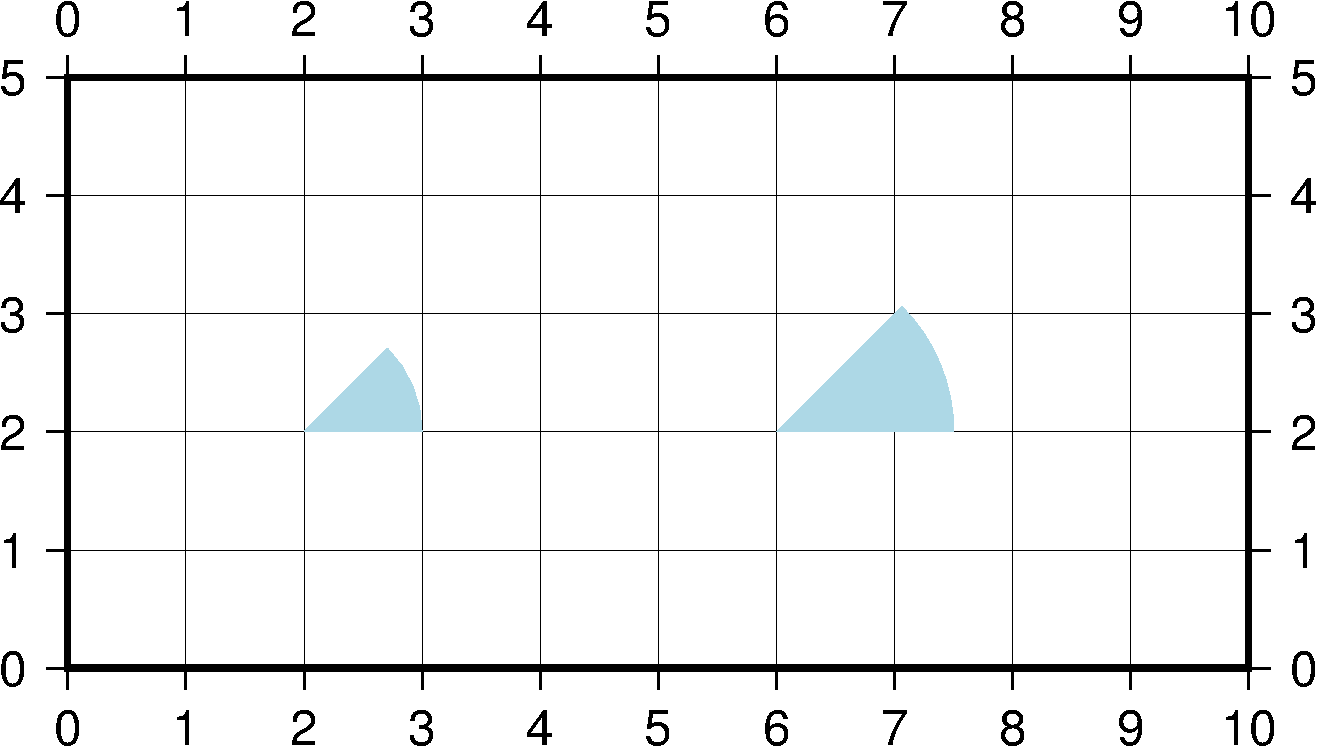
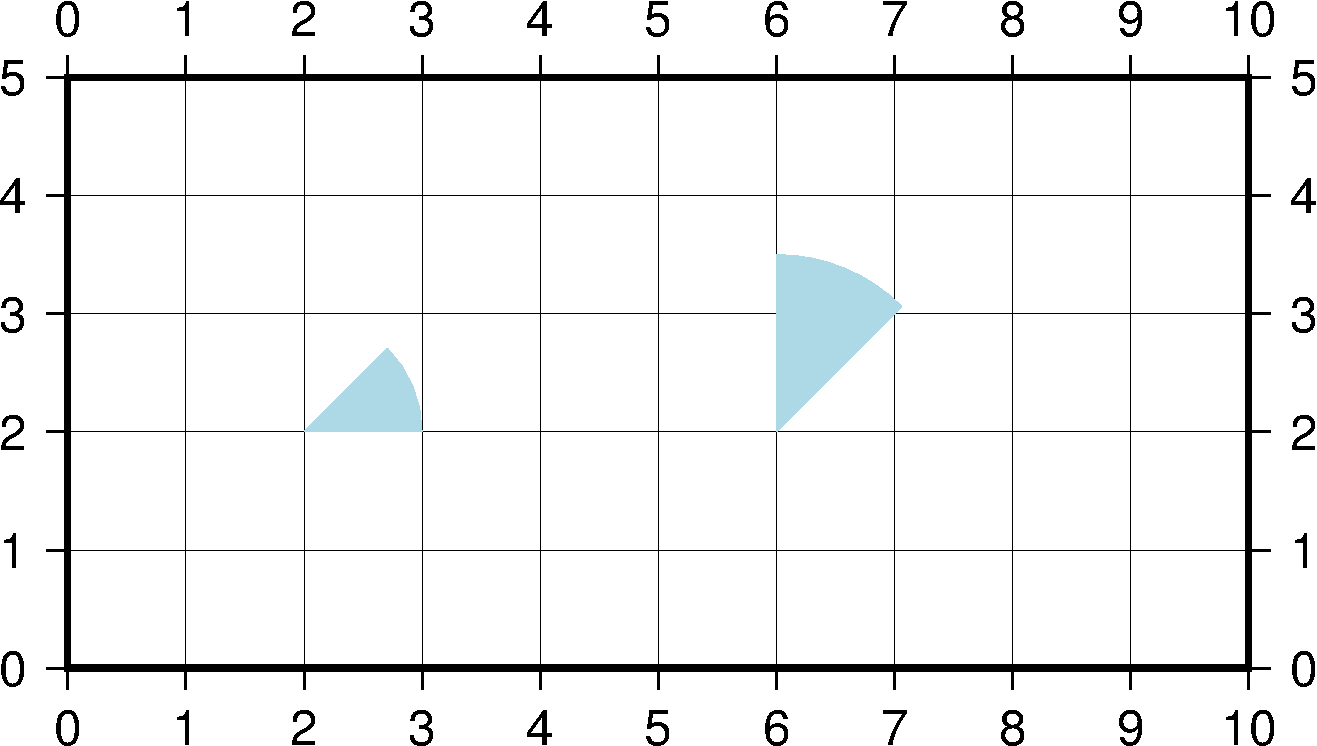
fix bugs

Changed region(s): [[0.5915, 0.3391, 0.7472, 0.5858]]

diff --git a/source/psxy.rst b/source/psxy.rst
@@ -37,7 +37,7 @@ angles，而\ ``-Sw``\ 指定的方向则会保存不变。
    2 2 0 45
    EOF
 
-   gmt psxy -R$R -J$J -Sw3c -Glightblue -K -O >> $PS << EOF
+   gmt psxy -R$R -J$J -SW3c -Glightblue -K -O >> $PS << EOF
    6 2 0 45
    EOF
    gmt psxy -R$R -J$J -T -O >> $PS
